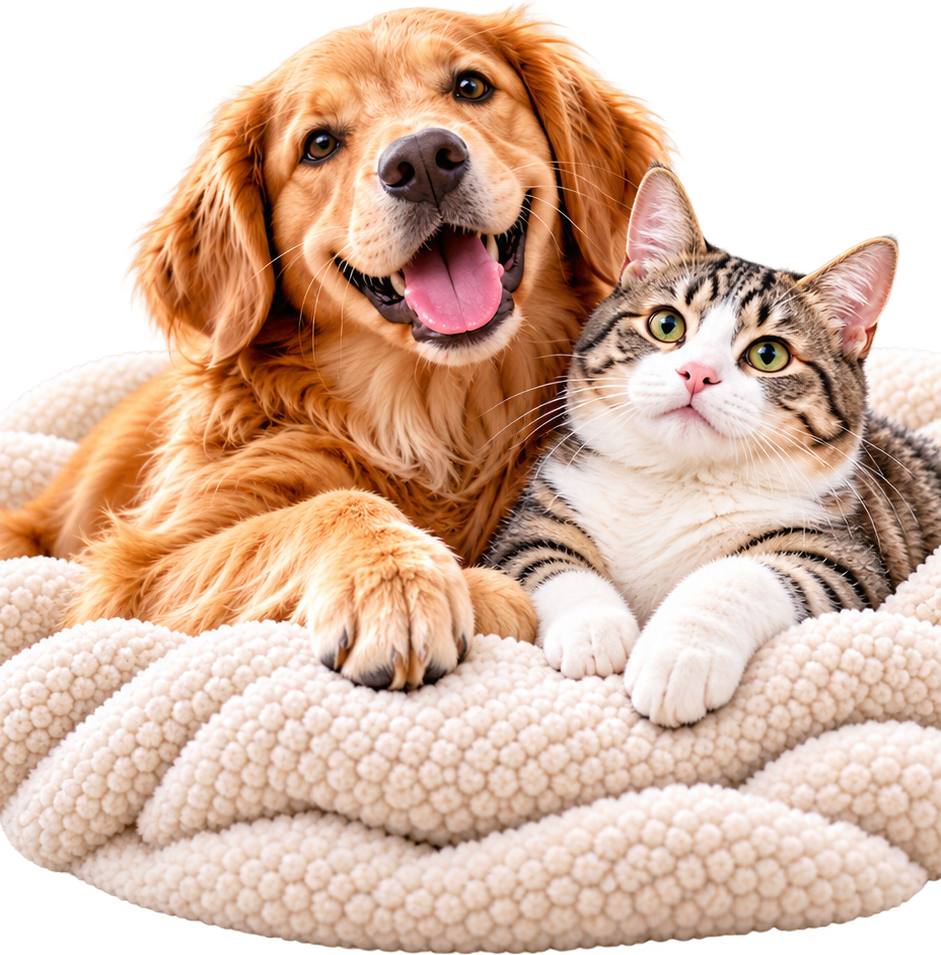
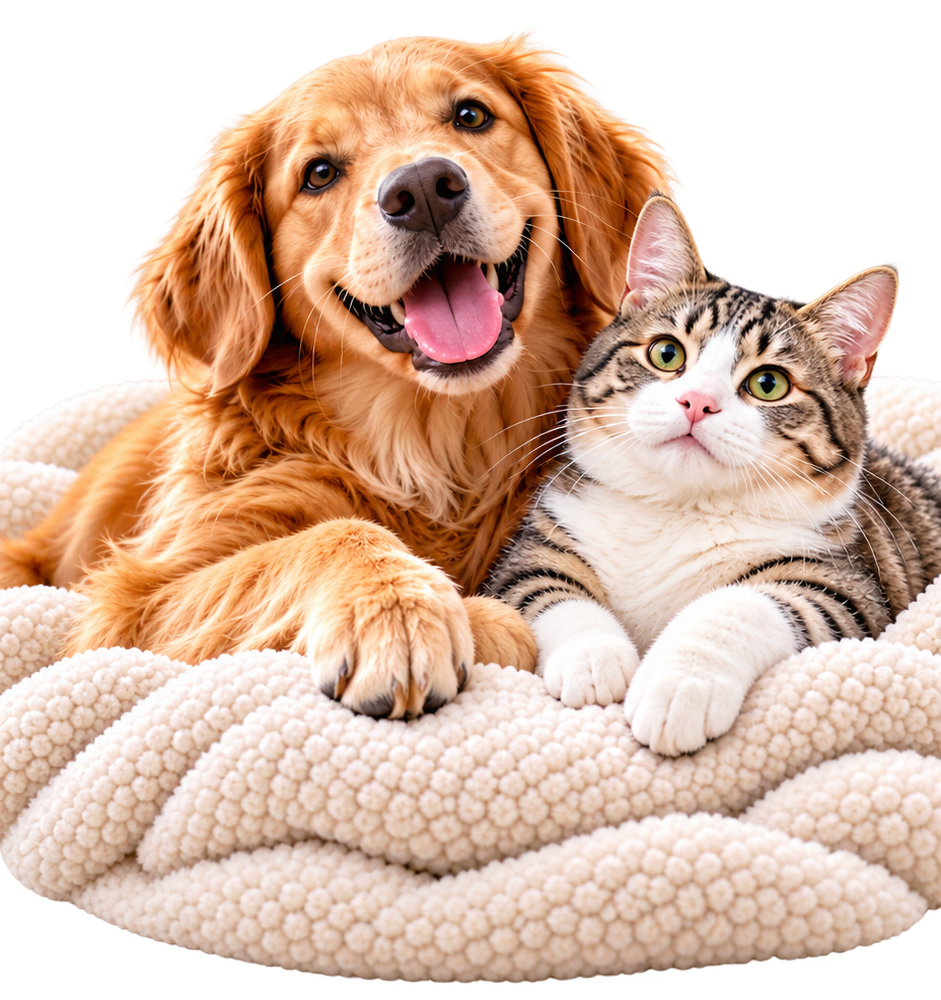
fix(mobile): mostrar imagen de mascotas completa y a ancho completo sin recortar

diff --git a/src/components/Hero.tsx b/src/components/Hero.tsx
@@ -144,12 +144,12 @@ export const Hero: FC<HeroProps> = ({
           </div>
         </div>
 
-        {/* Mobile Pets Image - Fully visible above the bottom navbar */}
-        <div className="w-full mt-auto flex justify-center items-end select-none overflow-hidden pb-16 md:pb-0">
+        {/* Mobile Pets Image - Full Width Edge-to-Edge, completely visible */}
+        <div className="w-full mt-auto flex justify-center items-end select-none overflow-hidden">
           <div
             onMouseDown={handlePointerDown}
             onTouchStart={handleTouchStart}
-            className="relative w-full max-w-[380px] flex justify-center cursor-pointer select-none px-2"
+            className="relative w-full cursor-pointer select-none"
             title="Tócame con el dedo ❤"
           >
             <img
@@ -159,7 +159,7 @@ export const Hero: FC<HeroProps> = ({
               }}
               alt="Perro y gato en cama tejida"
               fetchPriority="high"
-              className="w-full max-h-[36vh] min-[380px]:max-h-[42vh] object-contain select-none origin-bottom drop-shadow-sm"
+              className="w-full h-auto object-contain select-none origin-bottom scale-100"
             />
 
             {/* Floating Hearts only */}
